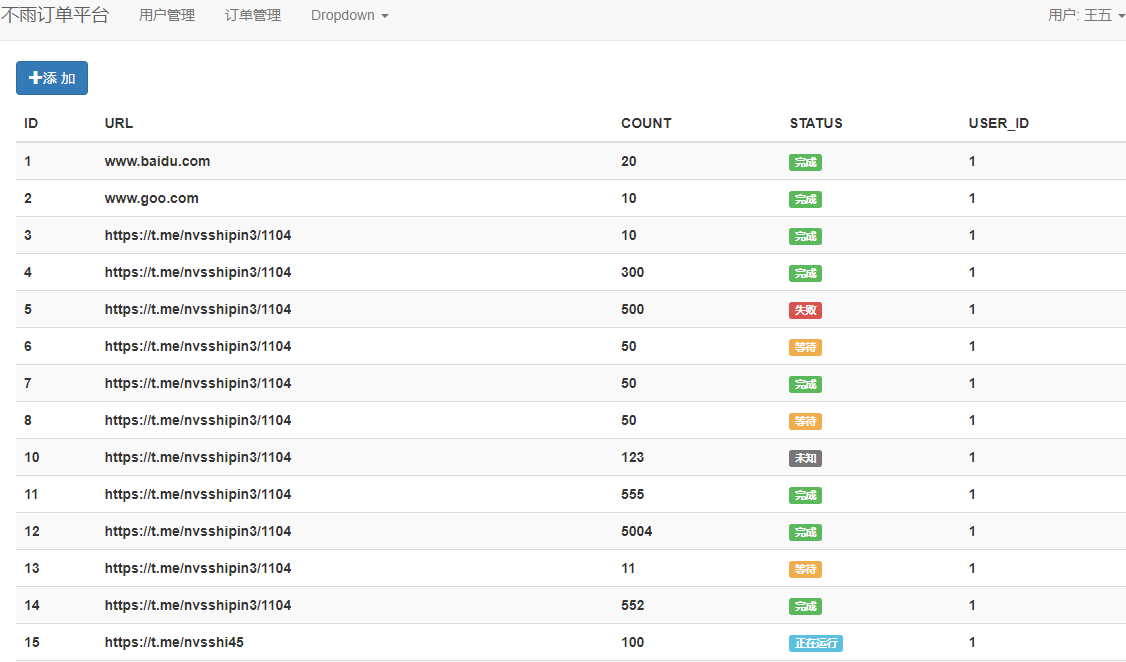
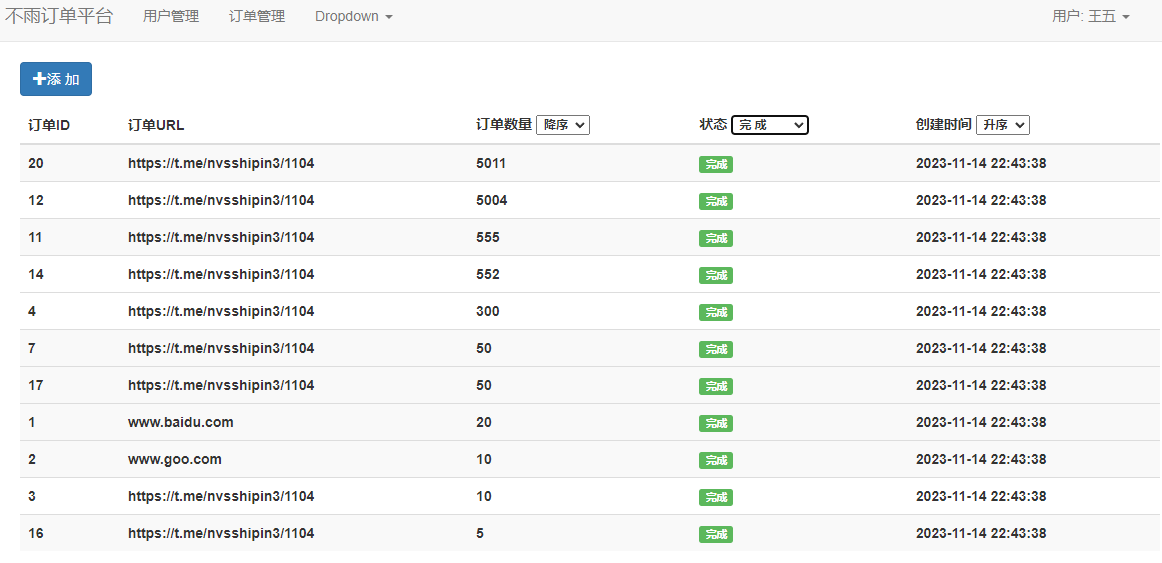
版本:0.2.2
1.订单页面创建了前端显示的筛选功能
2.对sql进行了自动创建时间/修改时间功能

diff --git a/shangpin/templates/order_list.html b/shangpin/templates/order_list.html
@@ -2,25 +2,61 @@
 
 
 {%block body%}
+<style>
+    .small-select {
+        height: 20px;
+        padding: 1px 3px;
+        font-size: 12px;
+        line-height: 1;
+    }
+</style>
+
 
 <div class="container">
     <div class="table-responsive">
         <div style="margin-bottom: 10px">
-<!--            跳转到添加订单页面-->
+            <!--            跳转到添加订单页面-->
             <a class="btn btn-primary" href="/order/create">
 
-           <span class="glyphicon glyphicon-plus" aria-hidden="true"></span>添 加</a>
+                <span class="glyphicon glyphicon-plus" aria-hidden="true"></span>添 加</a>
         </div>
         <table class="table table-striped">
             <!--      表头列表-->
             <thead>
 
             <tr>
-                <th>ID</th>
-                <th>URL</th>
-                <th>COUNT</th>
-                <th>STATUS</th>
-                <th>USER_ID</th>
+                <th>订单ID</th>
+                <th>订单URL</th>
+                <!--                <th onclick="sortTable(2)">COUNT</th>-->
+                <th>
+                    订单数量
+                    <select onchange="sortTable(this, 2)" class="small-select">
+                        <option value="asc">升序</option>
+                        <option value="desc">降序</option>
+                    </select>
+                </th>
+
+                <th>
+                    状态
+                    <select onchange="filterTable(this)" class="small-select">
+                        <option value="all">全 部</option>
+                        <option value="1">等 待</option>
+                        <option value="2">正在运行</option>
+                        <option value="3">完 成</option>
+                        <option value="4">失 败</option>
+                        <option value="5">未 知</option>
+                    </select>
+                </th>
+
+
+                <th>
+                    创建时间
+                    <select onchange="sortTableByDate(this, 4)" class="small-select">
+                        <option value="asc">升序</option>
+                        <option value="desc">降序</option>
+                    </select>
+                </th>
+
             </tr>
 
 
@@ -32,21 +68,138 @@
                 <th>{{item.id}}</th>
                 <th>{{item.url}}</th>
                 <th>{{item.count}}</th>
-                <!--            数字转文字的动态和颜色变化-->
-                <th>
-              <span class="label label-{{ status_dict[item.status].col }}">
-              {{ status_dict[item.status].sta }}
-          </span>
+                <!--                状态栏status的选择,第一需要他的序列来做为选择,第二是为了动态颜色-->
+                <th data-status="{{ item.status }}">
+  <span class="label label-{{ status_dict[item.status].col }}">
+  {{ status_dict[item.status].sta }}
+  </span>
                 </th>
-                <th>{{item.user_id}}</th>
+
+
+                <th>{{item.created_time}}</th>
 
             </tr>
+
+
             {% endfor %}
             </tbody>
 
 
+
         </table>
-    </div>
+
+
+
+
 </div>
 
+
+
+
+<script>
+    // region订单数量栏的升降序排列
+    function sortTable(select, n) {
+        var table, rows, switching, i, x, y, shouldSwitch;
+        var dir = select.value; // 取得选中的排序方式
+        table = document.querySelector(".table");
+        switching = true;
+        // 无需再确定排序的方向，因为已由下拉框提供
+        while (switching) {
+            switching = false;
+            rows = table.rows;
+            for (i = 1; i < (rows.length - 1); i++) {
+                shouldSwitch = false;
+                x = rows[i].getElementsByTagName("TH")[n];
+                y = rows[i + 1].getElementsByTagName("TH")[n];
+                if (dir == "asc") {
+                    if (parseInt(x.innerHTML) > parseInt(y.innerHTML)) {
+                        shouldSwitch = true;
+                        break;
+                    }
+                } else if (dir == "desc") {
+                    if (parseInt(x.innerHTML) < parseInt(y.innerHTML)) {
+                        shouldSwitch = true;
+                        break;
+                    }
+                }
+            }
+            if (shouldSwitch) {
+                rows[i].parentNode.insertBefore(rows[i + 1], rows[i]);
+                switching = true;
+            }
+        }
+    }
+    //endregion
+
+    //region 状态栏的筛选
+    function filterTable(select) {
+        var filterValue = select.value;
+        var table = document.querySelector(".table");
+        var tr = table.getElementsByTagName("tr");
+
+        // 遍历所有行（跳过表头）
+        for (var i = 1; i < tr.length; i++) {
+            var td = tr[i].getElementsByTagName("th")[3]; // 基于 STATUS 列的索引位置
+            if (td) {
+                var statusValue = td.getAttribute('data-status'); // 假设你设置了 data-status attribute
+                if (filterValue == "all" || statusValue == filterValue) {
+                    tr[i].style.display = "";
+                } else {
+                    tr[i].style.display = "none";
+                }
+            }
+        }
+    }
+    //endregion
+
+    // region   创建时间 栏上的 升降序排列
+    function convertDateTime(dateTimeStr) {
+        // 将日期时间字符串分割成日期和时间
+        var parts = dateTimeStr.split(' ');
+        var dateParts = parts[0].split('-');
+        var timeParts = parts[1].split(':');
+
+        // 构建一个新的日期对象
+        return new Date(dateParts[0], dateParts[1] - 1, dateParts[2], timeParts[0], timeParts[1], timeParts[2]);
+    }
+
+    function sortTableByDate(select, columnIndex) {
+        var table = select.parentNode.parentNode.parentNode.parentNode;
+        var tbody = table.tBodies[0];
+        var rows = Array.from(tbody.rows);
+
+        // 根据选择框来决定排序方式（升序或降序）
+        var sortOrder = select.value;
+
+        // 实际的排序逻辑
+        rows.sort(function(a, b) {
+            // 对于每一行，提取并转换日期时间字符串，然后使用日期比较
+            var dateA = convertDateTime(a.cells[columnIndex].textContent.trim());
+            var dateB = convertDateTime(b.cells[columnIndex].textContent.trim());
+
+            // 根据排序顺序返回比较结果
+            return sortOrder === 'asc' ? dateA - dateB : dateB - dateA;
+        });
+
+        // 将排序过的行重新添加到tbody中
+        rows.forEach(function(row) {
+            tbody.appendChild(row);
+        });
+    }
+    //endregion
+
+
+
+
+
+
+
+
+
+
+
+</script>
+
+
 {%endblock%}
+</div>

diff --git a/shangpin/sql/mysql.py b/shangpin/sql/mysql.py
@@ -73,6 +73,7 @@ def order_findall(id,role):
     cursor.close()
     conn.close()
 
+
     return result
 
 def order_insert(user_id,user_name,url,count,status):
@@ -158,3 +159,29 @@ def update_task_final_in_sql(task):
         cursor.close()
         conn.close()
 
+
+
+def get_paginated_orders(page, page_size):
+    # 获取分页的总记录数
+    conn = pool.connection()
+    cursor = conn.cursor(cursors.DictCursor)  # 使用字典游标
+    try:
+        cursor.execute("SELECT COUNT(*) FROM orders")
+        total_count = cursor.fetchone()['COUNT(*)']
+        total_pages = (total_count + page_size - 1) // page_size  # 计算总页数
+
+        # 计算起始条目的索引
+        start = (page - 1) * page_size
+        # 获取当前页面的数据
+        query = "SELECT * FROM orders ORDER BY id LIMIT %s OFFSET %s"
+
+        cursor.execute(query, (page_size, start))
+        orders_list = cursor.fetchall()  # 获取订单数据列表，现在为字典列表
+    except Exception as e:
+        logging.error(f"在分页查询订单时出错: {e}")
+        return [], 0
+    finally:
+        cursor.close()
+        conn.close()
+
+    return orders_list, total_pages

diff --git a/shangpin/views/order.py b/shangpin/views/order.py
@@ -1,5 +1,5 @@
-from flask import Blueprint,session,redirect,render_template,request,flash
-from ..sql.mysql import order_findall,order_insert
+from flask import Blueprint,session,redirect,render_template,request,flash,jsonify
+from ..sql.mysql import order_findall,order_insert,get_paginated_orders
 #蓝图对象
 ac = Blueprint("order",__name__)
 
@@ -15,6 +15,7 @@ def order_list():
     #进入到了订单页面
 
     data =order_findall(user_info['id'],user_info['role'])
+
     #状态码的转中文/颜色
     status_dict={
         1: {"sta":'等待',"col":"warning"},
@@ -30,6 +31,12 @@ def order_list():
 
 
     return yemian
+
+
+
+
+
+
 
 @ac.route('/order/create',methods = ["GET","POST"])
 def create_order():

diff --git a/shangpin/__init__.py b/shangpin/__init__.py
@@ -49,6 +49,11 @@ def create_app():
 
     app.register_blueprint(user.ac)
     app.register_blueprint(order.ac)
+
+
+
+
+
     app.template_global()(get_real_name)
 
     return app
